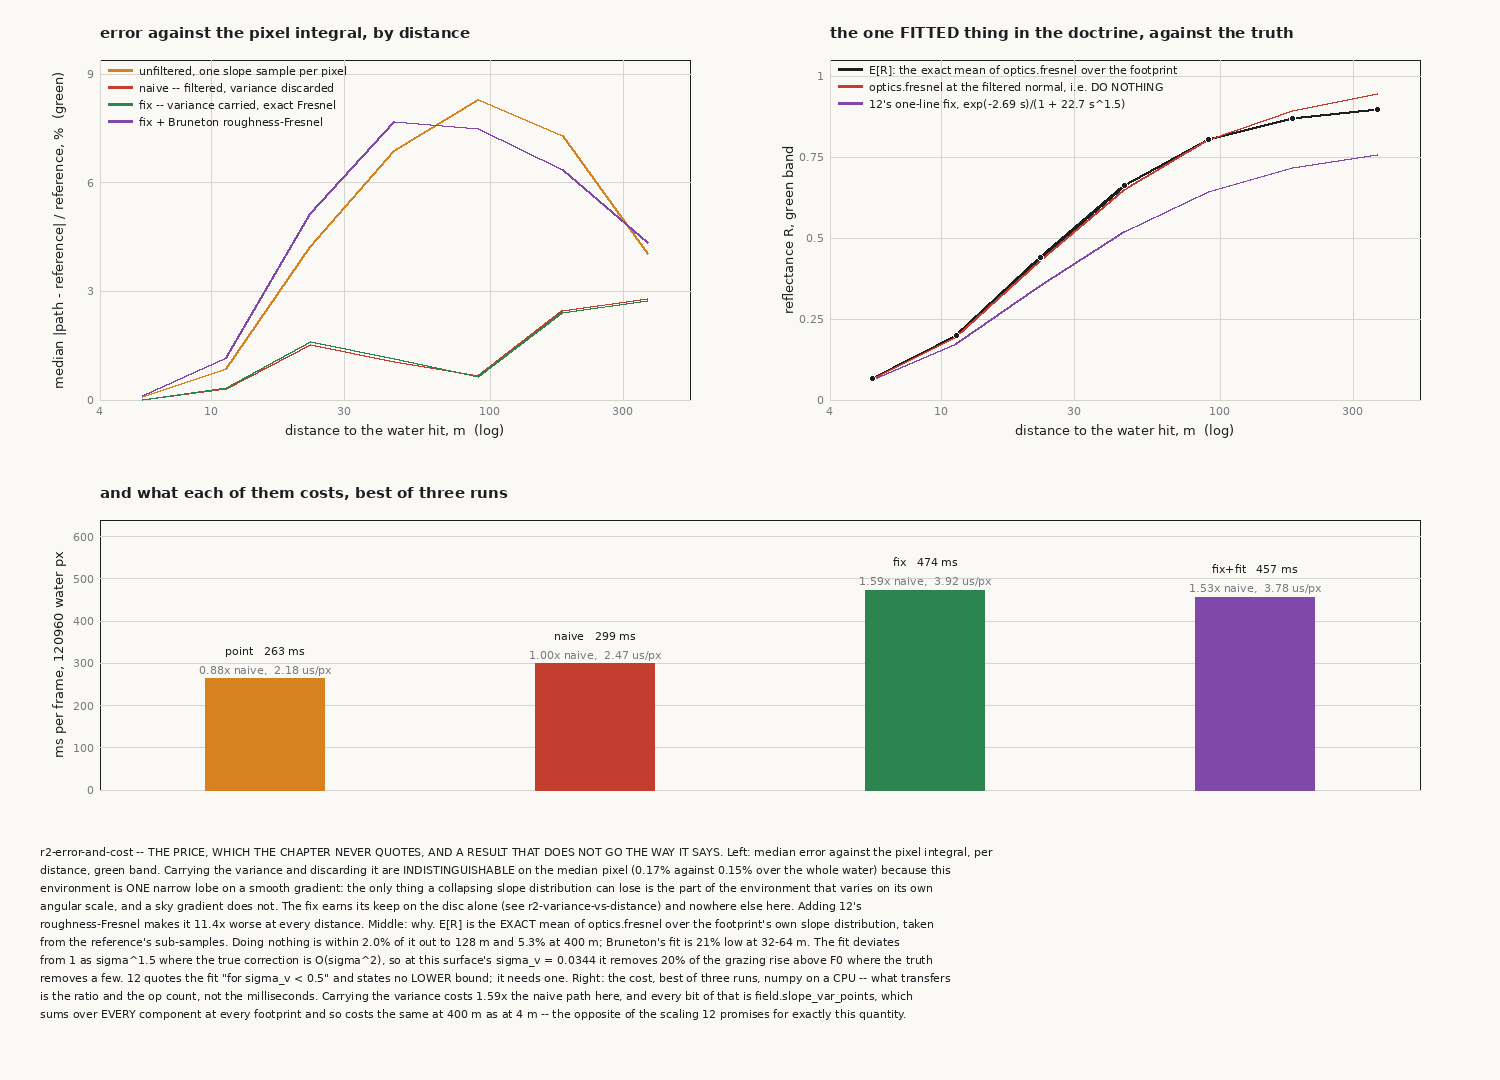
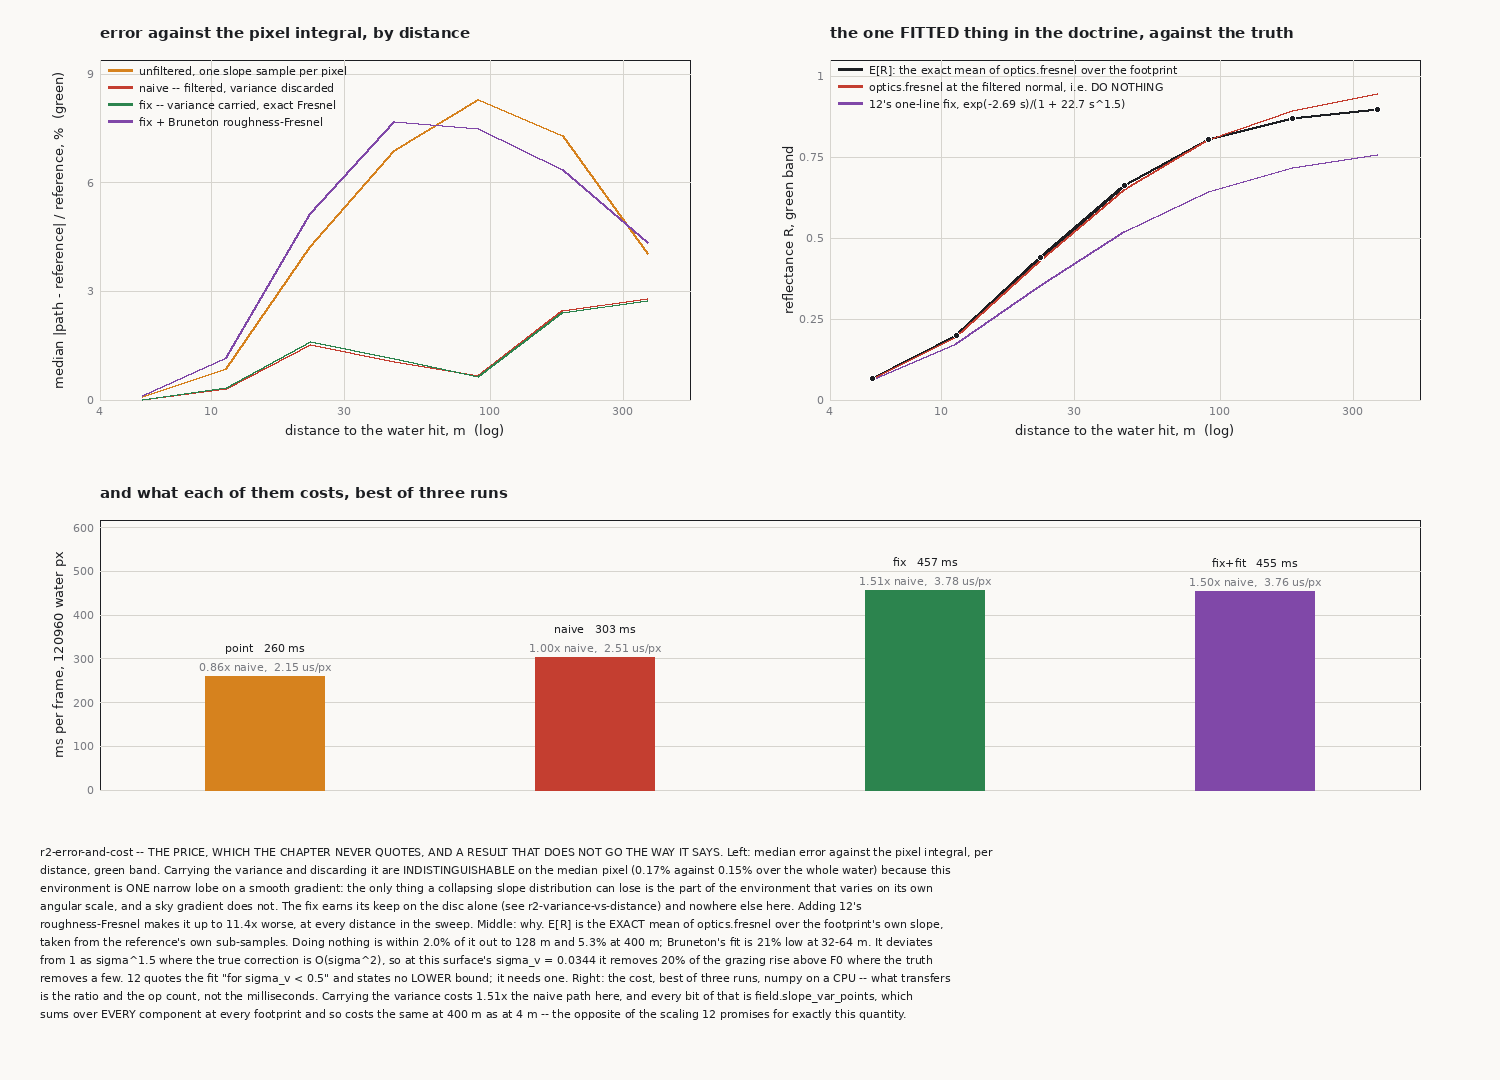
raster: 200 rows, 0 FAIL, and the r2- captions redrawn from the run that passed
The cone estimator's tolerance is now its own measured kernel bias -- the
spread between its 1 deg and 2 deg readings -- rather than a percentage picked
for it, which is the same rule the traversal rows already live under.

Claude-Session: https://claude.ai/code/session_01F59gHv9Mb54VT3C3EE9Hq5

diff --git a/terrain-renderer/raster-impl/README.md b/terrain-renderer/raster-impl/README.md
@@ -8,7 +8,7 @@ integral before the frame starts** — split it, table it, sample it, drop the
 part that refracts — and the offline path cannot test any of them, structurally:
 approximation error is invisible to a code path that does not approximate.
 
-    python3 validate_raster.py        # 198 rows, three tiers, ~95 s, non-zero exit on FAIL
+    python3 validate_raster.py        # 200 rows, three tiers, ~2 min, non-zero exit on FAIL
     python3 validate_raster.py -v     # every tolerance's justification
     python3 validate_raster.py --fast # skip the frame-level tiers (~15 s)
     python3 evidence.py               # the eight figures in gauntlet/raster/evidence/
@@ -22,7 +22,7 @@ approximation error is invisible to a code path that does not approximate.
 | `offline.py` | The frame the pass is validated against. Same model, different machinery: analytic geometry, per-band refracted rays, `optics.slab_esc` / `slab_trap` evaluated at **every pixel's own three optical depths**. |
 | `waves.py` | **The wave surface**, on the flat datum. `field.py` wired in: the narrowed slope field, the removed-variance tensor, the screen-space footprint the pass can actually form, the slope-covariance-to-lobe-covariance map, and the three filter paths the chapter's *Distance and filtering* is an argument between. Its own camera, and why. |
 | `waveref.py` | The frame `waves.py` is validated against: the pixel's own footprint integral, by stratified sub-sampling of the **unfiltered** field. Two estimators, because the sun's disc defeats the obvious one. |
-| `validate_raster.py` | 198 rows on `validate.py`'s harness. At least one absolute row per quantity. |
+| `validate_raster.py` | 200 rows on `validate.py`'s harness. At least one absolute row per quantity. |
 | `evidence.py` | The eight figures, every caption number formatted from the run that drew it. |
 
 **Nothing here re-implements any physics.** `optics.py`, `atmosphere.py` and
@@ -431,7 +431,8 @@ direction at the sun, estimated by counting sub-samples inside a cone of
 half-angle ε. At ε = 2° the acceptance is 57× the disc's own. Its bias is the
 kernel width and it is *reported*, not assumed: the estimate is taken at 1° and
 2° and the spread between them is the tolerance every row built on it may spend.
-Where the brute force converges the two agree inside that spread.
+Where the brute force converges the two agree inside that spread: 0.933 against
+a bias bracket of 0.122 at 4–8 m, and 0.928 against 0.084 at 8–16 m.
 
 ### The fix, priced
 
@@ -639,7 +640,7 @@ depths, agreement inside 4 standard errors of the estimator, tolerance ~2e-4.
 
 ## Reading the suite
 
-198 rows, three tiers, ~95 s (the wave tiers build a 196-sub-sample reference). The harness, the tier meanings and the rule that a
+200 rows, three tiers, ~2 min (the wave tiers build a 196-sub-sample reference). The harness, the tier meanings and the rule that a
 tolerance comes from the **estimator's** error and never from the measured
 disagreement are `validate.py`'s, deliberately.
 
